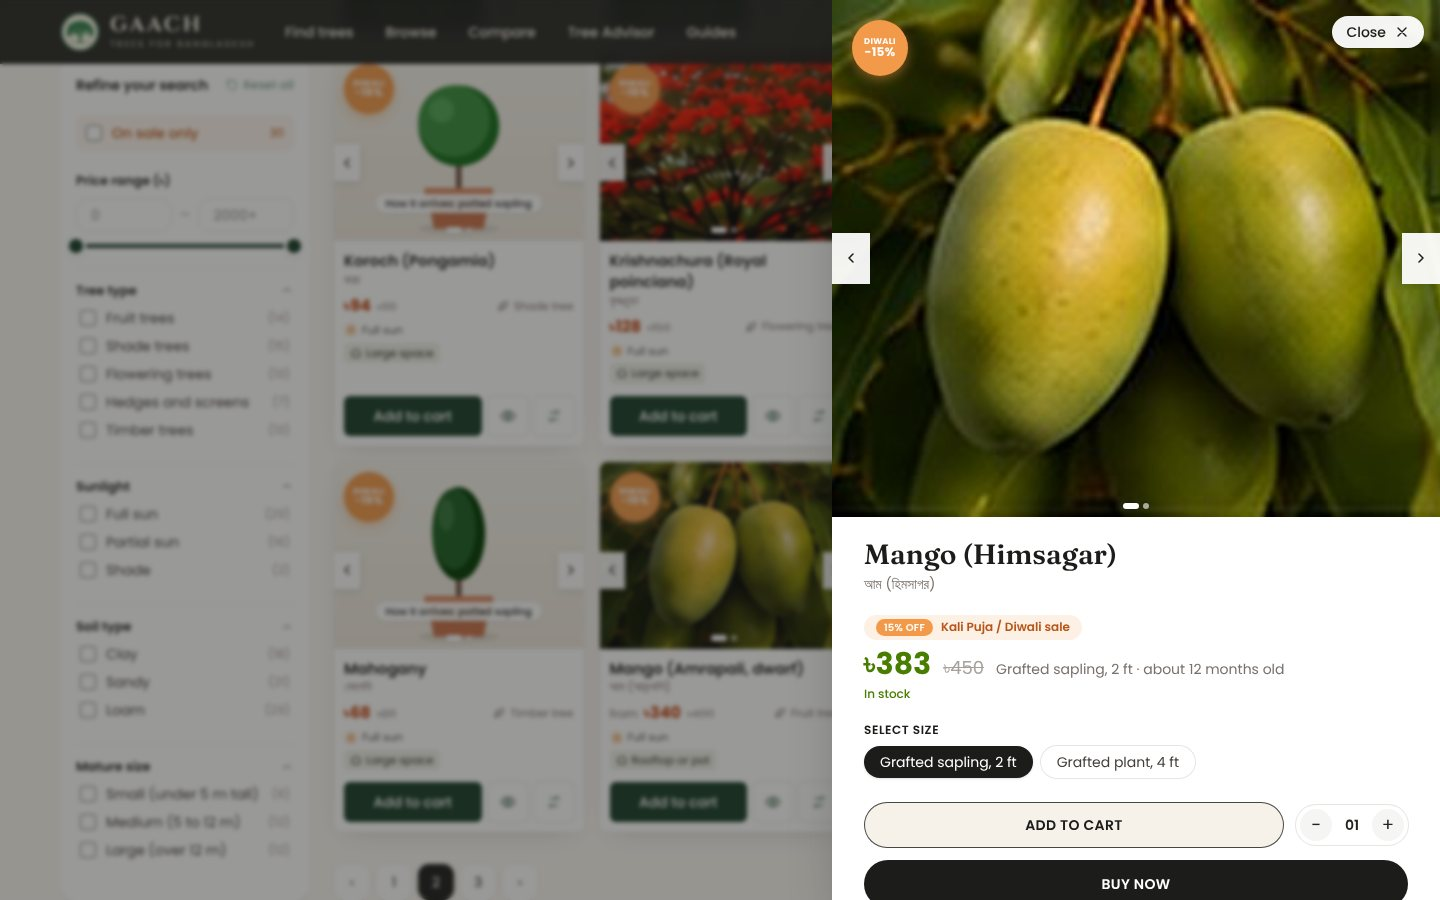
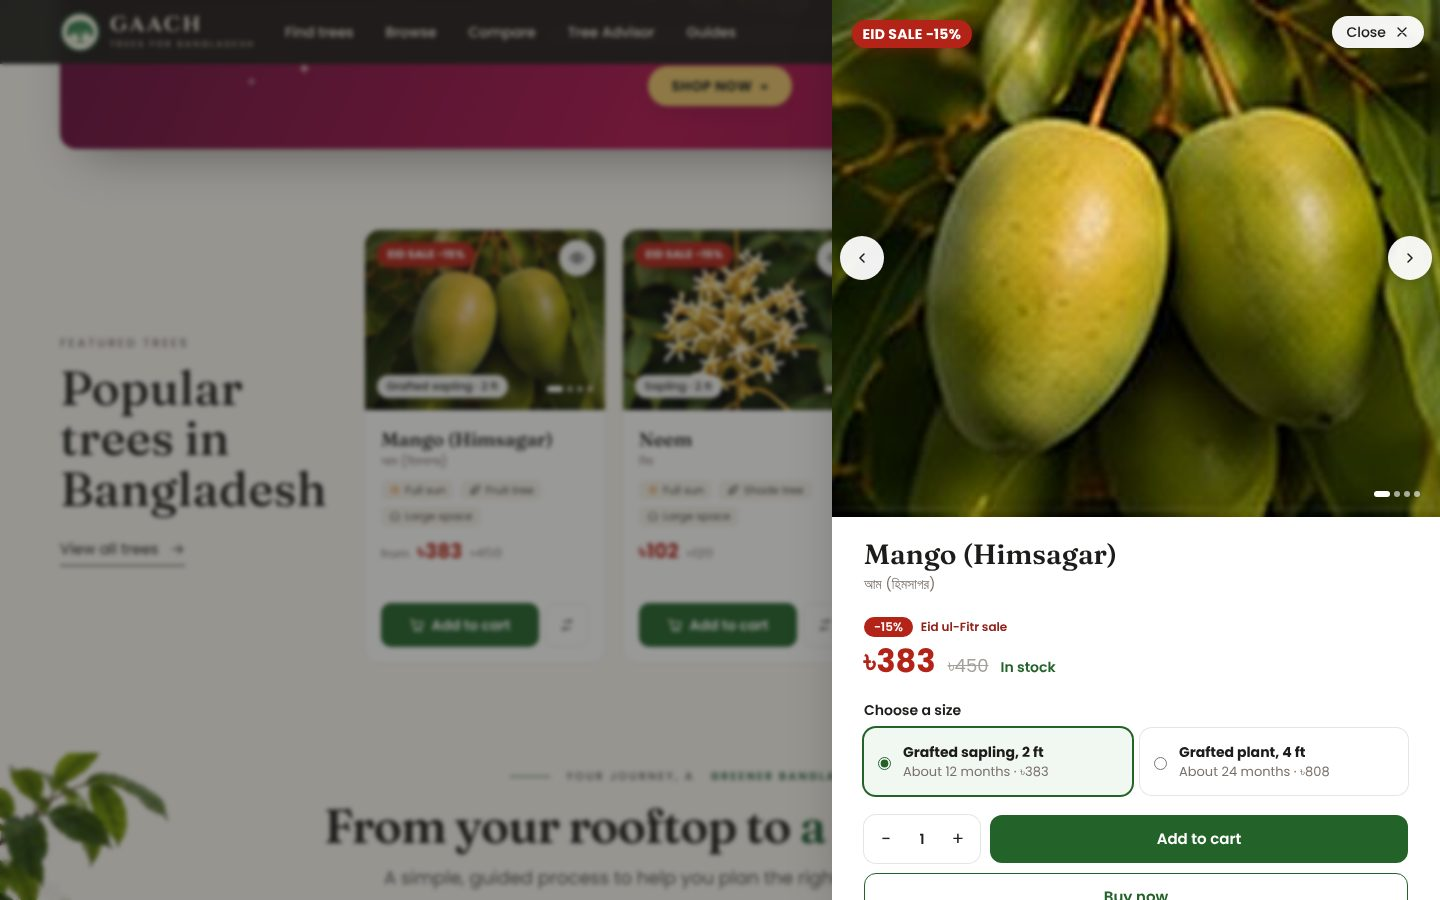
Add to cart on every card, Start now for sales, README

diff --git a/src/components/TreeCard.tsx b/src/components/TreeCard.tsx
@@ -95,25 +95,29 @@ export async function TreeCard({ tree, comparing = false, back = "/trees", layou
     </form>
   );
 
-  // One size: add it straight away. Several sizes: open the quick view to pick one.
+  // Every card says "Add to cart". One size: it goes straight in the cart.
+  // Several sizes: the quick view opens so the shopper picks one first.
+  const addLabel = (
+    <>
+      <span className="hidden @[15rem]:flex"><CartIcon /></span>
+      <span className="whitespace-nowrap">Add to cart</span>
+    </>
+  );
   const button = !buyable ? (
     <Link href={href} className="flex h-11 min-w-0 flex-1 items-center justify-center rounded-[0.625rem] border border-stone-200 px-3 text-sm font-medium text-stone-600 hover:bg-mint-50">
       {cheapest ? "Out of stock" : "View details"}
     </Link>
   ) : priced.filter((x) => x.product.stock > 0).length > 1 ? (
     <div className="min-w-0 flex-1">
-      <QuickView tree={quick} photos={slides} products={sizes} badge={badge} back={back} buttonClass={mainBtn} label={`Choose a size of ${tree.name}`}>
-        <span className="whitespace-nowrap"><span className="@[13rem]:hidden">Sizes</span><span className="hidden @[13rem]:inline">Choose size</span></span>
+      <QuickView tree={quick} photos={slides} products={sizes} badge={badge} back={back} buttonClass={mainBtn} label={`Add ${tree.name} to cart (choose a size)`}>
+        {addLabel}
       </QuickView>
     </div>
   ) : (
     <form action={addToCart} className="min-w-0 flex-1">
       <input type="hidden" name="productId" value={buyable.id} />
       <input type="hidden" name="back" value={back} />
-      <button aria-label={`Add ${tree.name} to cart`} className={mainBtn}>
-        <span className="hidden @[17rem]:flex"><CartIcon /></span>
-        <span className="whitespace-nowrap"><span className="@[13rem]:hidden">Add</span><span className="hidden @[13rem]:inline">Add to cart</span></span>
-      </button>
+      <button aria-label={`Add ${tree.name} to cart`} className={mainBtn}>{addLabel}</button>
     </form>
   );
 
@@ -124,6 +128,11 @@ export async function TreeCard({ tree, comparing = false, back = "/trees", layou
       <div className={`relative shrink-0 ${list ? "w-36 sm:w-44" : ""}`}>
         <CardPhotos photos={slides} href={href} name={tree.name} shape={tree.shape} color={tree.color} tag={tag} className={list ? "h-full min-h-36 rounded-xl" : "aspect-[4/3]"} />
         {top && <span className="sale-badge absolute left-3 top-3 z-10" title={top.occasion ?? "On sale"}>{top.badge} −{top.percentOff}%</span>}
+        <div className="absolute right-2.5 top-2.5 z-10">
+          <QuickView tree={quick} photos={slides} products={sizes} badge={badge} back={back} buttonClass="grid h-9 w-9 place-items-center rounded-full bg-white/95 text-forest-900 shadow-[0_2px_8px_rgb(0_0_0/0.15)] transition hover:scale-105 hover:text-leaf-700 active:scale-95">
+            <EyeIcon />
+          </QuickView>
+        </div>
       </div>
       <div className={`flex flex-1 flex-col ${list ? "py-1 pr-2" : "p-3 sm:p-4"}`}>
         <Link href={href} className="block">
@@ -151,10 +160,7 @@ export async function TreeCard({ tree, comparing = false, back = "/trees", layou
         </p>
         <div className={`mt-auto flex items-center gap-1.5 pt-3 ${list ? "max-w-sm" : ""}`}>
           {button}
-          <QuickView tree={quick} photos={slides} products={sizes} badge={badge} back={back} buttonClass={`${iconBtn} border-stone-200 bg-white text-forest-900 hover:border-leaf-600 hover:text-leaf-700`}>
-            <EyeIcon />
-          </QuickView>
-          {compare}
+          <div className="hidden @[13.5rem]:block">{compare}</div>
         </div>
       </div>
     </div>

diff --git a/src/app/admin/sales/page.tsx b/src/app/admin/sales/page.tsx
@@ -1,6 +1,6 @@
 import { db } from "@/lib/db";
 import { PromotionForm } from "@/components/admin/PromotionForm";
-import { deletePromotion, togglePromotion } from "@/modules/admin/sales-actions";
+import { deletePromotion, startPromotionNow, togglePromotion } from "@/modules/admin/sales-actions";
 import { ConfirmButton } from "@/components/ConfirmButton";
 import { isLive } from "@/modules/shop/pricing";
 import { festival, upcomingFestivals } from "@/lib/festivals";
@@ -15,7 +15,10 @@ function status(p: { active: boolean; startsAt: Date | null; endsAt: Date | null
   const now = new Date();
   if (!p.active) return ["Off", "bg-stone-100 text-stone-600"];
   if (p.endsAt && p.endsAt < now) return ["Ended", "bg-stone-100 text-stone-500"];
-  if (p.startsAt && p.startsAt > now) return ["Scheduled", "bg-sky-50 text-sky-800"];
+  if (p.startsAt && p.startsAt > now) {
+    const days = Math.ceil((p.startsAt.getTime() - now.getTime()) / 86_400_000);
+    return [days <= 1 ? "Starts within a day" : `Starts in ${days} days`, "bg-sky-50 text-sky-800"];
+  }
   return isLive(p, now) ? ["Live", "bg-lime-100 text-lime-800"] : ["Off", "bg-stone-100 text-stone-600"];
 }
 
@@ -55,10 +58,14 @@ export default async function SalesPage({ searchParams }: { searchParams: Promis
                 <span className="text-xs text-stone-500">{p.allTrees ? "All trees" : `${p.trees.length} tree${p.trees.length === 1 ? "" : "s"}`}</span>
                 <span className="text-xs text-stone-500">{p.startsAt ? when(p.startsAt) : "Now"} → {p.endsAt ? when(p.endsAt) : "no end date"}</span>
                 <span className="ml-auto flex gap-2">
+                  {p.active && p.startsAt && p.startsAt > new Date() && <form action={startPromotionNow}><input type="hidden" name="id" value={p.id} /><button className="btn-ghost text-xs font-semibold text-leaf-700">Start now</button></form>}
                   <form action={togglePromotion}><input type="hidden" name="id" value={p.id} /><button className="btn-ghost text-xs">{p.active ? "Switch off" : "Switch on"}</button></form>
                   <form action={deletePromotion}><input type="hidden" name="id" value={p.id} /><ConfirmButton message={`Delete the sale "${p.name}"?`} className="btn-ghost text-xs text-red-700">Delete</ConfirmButton></form>
                 </span>
               </summary>
+              {p.active && p.startsAt && p.startsAt > new Date() && (
+                <p className="mt-3 rounded-lg bg-sky-50 p-3 text-sm text-sky-900">Not live yet. Shoppers see the discount, badges and banners from {when(p.startsAt)}. Press &ldquo;Start now&rdquo; to begin it today.</p>
+              )}
               <div className="mt-4 border-t border-stone-100 pt-4">
                 <PromotionForm
                   trees={trees}

diff --git a/src/components/admin/PromotionForm.tsx b/src/components/admin/PromotionForm.tsx
@@ -114,7 +114,7 @@ export function PromotionForm({ p, trees, upcoming = [] }: { p?: PromoInit; tree
           <div><label className="field-label text-xs">Badge text (on product cards)</label><input name="badge" value={f.badge} onChange={set("badge")} maxLength={14} className="input uppercase" />{e.badge && <p className="field-error">{e.badge}</p>}</div>
           <div><label className="field-label text-xs">Discount (%)</label><input name="percentOff" type="number" min="1" max="90" value={f.percentOff} onChange={set("percentOff")} className="input" />{e.percentOff && <p className="field-error">{e.percentOff}</p>}</div>
           <div className="sm:col-span-2 lg:col-span-4"><label className="field-label text-xs">Why the discount (shown on the banners)</label><input name="message" value={f.message} onChange={set("message")} maxLength={140} placeholder="Celebrate Eid by planting a tree for your family." className="input" />{e.message && <p className="field-error">{e.message}</p>}</div>
-          <div><label className="field-label text-xs">Starts (optional)</label><input name="startsAt" type="datetime-local" value={f.startsAt} onChange={set("startsAt")} className="input" />{e.startsAt && <p className="field-error">{e.startsAt}</p>}</div>
+          <div><label className="field-label text-xs">Starts (optional)</label><input name="startsAt" type="datetime-local" value={f.startsAt} onChange={set("startsAt")} className="input" /><p className="mt-0.5 text-[0.6875rem] text-stone-500">Leave empty to start right away. Prices only change while the sale is live.</p>{e.startsAt && <p className="field-error">{e.startsAt}</p>}</div>
           <div><label className="field-label text-xs">Ends (optional)</label><input name="endsAt" type="datetime-local" value={f.endsAt} onChange={set("endsAt")} className="input" />{e.endsAt && <p className="field-error">{e.endsAt}</p>}</div>
           <div className="sm:col-span-2">
             <label className="field-label text-xs">Your own banner picture (optional)</label>

diff --git a/src/modules/admin/sales-actions.ts b/src/modules/admin/sales-actions.ts
@@ -115,6 +115,18 @@ export async function togglePromotion(fd: FormData) {
   revalidatePath("/", "layout");
 }
 
+// Starts a scheduled sale straight away (and switches it on)
+export async function startPromotionNow(fd: FormData) {
+  await requireAdmin();
+  const id = String(fd.get("id") ?? "");
+  const p = await db.promotion.findUnique({ where: { id } });
+  if (p) {
+    const now = new Date();
+    await db.promotion.update({ where: { id }, data: { active: true, startsAt: now, endsAt: p.endsAt && p.endsAt <= now ? null : p.endsAt } });
+  }
+  revalidatePath("/", "layout");
+}
+
 export async function deletePromotion(fd: FormData) {
   await requireAdmin();
   await db.promotion.deleteMany({ where: { id: String(fd.get("id") ?? "") } });

diff --git a/README.md b/README.md
@@ -137,7 +137,7 @@ Gaach was built for **CSE412 (Software Engineering) at East West University, Dha
 
 | Product cards with photo arrows and sale badges | Quick view from the eye button |
 |---|---|
-| <img src="docs/screenshots/product-cards.jpg" alt="Product cards with left and right photo arrows, a round Diwali sale badge, sale prices with the old price crossed out, and add to cart, quick view and compare buttons" /> | <img src="docs/screenshots/quick-view.jpg" alt="Quick-view panel sliding in from the right with a large photo slider, the sale badge, price, sizes and buy buttons" /> |
+| <img src="docs/screenshots/product-cards.jpg" alt="Product cards with photo arrows, a sale label, sale prices with the old price crossed out, and add to cart, quick view and compare buttons" /> | <img src="docs/screenshots/quick-view.jpg" alt="Quick-view panel sliding in from the right with a large photo slider, the sale badge, price, sizes and buy buttons" /> |
 | **Tree page with sizes and sale price** | **From your rooftop to a growing tree** |
 | <img src="docs/screenshots/tree-page.jpg" alt="Tree page for Mango (Himsagar) with the sale price, size buttons, quantity and photo gallery" /> | <img src="docs/screenshots/journey.jpg" alt="Home page section showing the four steps from picking a district to buying and growing" /> |
 
@@ -167,13 +167,13 @@ Gaach was built for **CSE412 (Software Engineering) at East West University, Dha
 |---|---|
 | 🌳 **Tree finder** | Recommends trees for a district and spot. Photo cards show the match score, the reasons and Buy and Compare buttons. Condition chips on the page update with the user's choices. |
 | 🔎 **Browse and search** | Every tree, with filters for type, sunlight, soil, mature size, price and "On sale only". Search works in English, in Bangla and by scientific name. Grid and list views, sorting and star ratings are included. |
-| 🖼 **Product cards** | Left and right arrows (or a swipe) flip through each tree's photos, then the potted sapling it arrives as. A round sale badge, the sale price with the old price crossed out, and Add to cart, quick view and compare buttons. |
-| 👁 **Quick view** | The eye button opens a side panel (a bottom sheet on phones) with a large photo slider, sizes, quantity, Add to cart, Buy now and a short description. |
+| 🖼 **Product cards** | One card design on the home, Browse and tree pages. Round arrows (shown on hover, always on phones) or a swipe flip through the photos and the potted sapling it arrives as. A size tag on the photo, a red sale label, the sale price with the old price crossed out, and the same green **Add to cart** button on every card. For a tree with several sizes, Add to cart opens the quick view so the shopper picks a size first. |
+| 👁 **Quick view** | The eye button on the photo opens a side panel (a bottom sheet on phones) with a large photo slider, sizes, quantity, Add to cart, Buy now and a short description. |
 | ⚖ **Compare** | Put 2 or 3 trees side by side: size, growth rate, sunlight, soil, water, season, flood, drought and salt tolerance, and cautions. |
 | 🎉 **Festival sales** | A decorated, animated banner on the home and shop pages and a strip with a countdown on every page, explaining the occasion and why prices are lower. |
 | 🛒 **Cart and checkout** | Several sizes per tree, quantity steppers, "Sale savings" in the summary, a stock-safe checkout, cash on delivery and a flat delivery fee. |
 | 📦 **Orders and My trees** | Order history, plus a "My trees" page that shows each tree's current growth stage and what to do next. |
-| 🤖 **Tree Advisor** | An AI chat that answers tree questions using Gaach's data and the user's own trees and saved sites. It is on every page and as a full page at `/assistant`. |
+| 🤖 **Tree Advisor** | An AI chat that answers tree questions using Gaach's data and the user's own trees and saved sites. It is on every page and as a full page at `/assistant` with chat history. **New chat** always starts a clean chat, and a refresh keeps the current one. |
 | 📷 **Photo check** | Send a photo of a sick plant and get the likely problem, safe next steps and links to care guides. |
 | 📚 **Care guides** | 28 practical guides grouped into planting and care, pests, problems and diseases, site and weather, safety, and specific trees. |
 | ⭐ **Ratings and reviews** | 1 to 5 stars with comments, and a "Bought from Gaach" badge for verified buyers. |
@@ -187,7 +187,7 @@ Gaach was built for **CSE412 (Software Engineering) at East West University, Dha
 | Area | Capabilities |
 |---|---|
 | **Trees and products** | Add, edit and publish trees. Upload several photos per tree at once and reorder or delete them. Manage sizes, prices, sale prices, stock and care stages. |
-| **Sales and offers** | A Bangladesh festival calendar fills in a sale in one tap. Pick one of 18 festival styles (with a live preview) or upload your own banner picture, then set the headline, badge, percent off, the reason shown to shoppers, dates, and all trees or chosen trees. Each sale shows as Live, Scheduled, Ended or Off. |
+| **Sales and offers** | A Bangladesh festival calendar fills in a sale in one tap. Pick one of 18 festival styles (with a live preview) or upload your own banner picture, then set the headline, badge, percent off, the reason shown to shoppers, dates, and all trees or chosen trees. Each sale shows as Live, Starts in N days, Ended or Off, and a scheduled sale has a **Start now** button. |
 | **Orders** | View all orders and update their status. Cancelling an order returns its stock. |
 | **Users and email** | View accounts, send a test email, email a reset link to a user, and see the last emails the site tried to send, with the result of each. |
 | **Reviews** | Hide, show or delete reviews. |
@@ -412,7 +412,8 @@ Admins create sales in **Admin → Sales & offers**. Each sale has a headline, a
 
 - **Festival calendar.** The admin page lists the festivals coming up in Bangladesh. One tap fills in the style, wording, discount and dates. Dates for Eid, Puja and Buddha Purnima depend on the moon and are marked so.
 - **Your own picture.** Instead of a drawn style, the admin can upload a banner picture, with or without Gaach's text on top.
-- **Where shoppers see it.** A big banner on the home and Browse pages, a strip with a live countdown at the top of every page, round badges on product cards and the sale name next to the price.
+- **Where shoppers see it.** A big banner on the home and Browse pages, a strip with a live countdown at the top of every page, a red sale label on product cards and the sale name next to the price.
+- **Scheduled sales.** A sale with a future start date changes nothing until that moment. The admin list says how many days are left, and **Start now** begins it straight away. Leave the start date empty to begin immediately.
 
 <p align="right"><sub><a href="#top">↑ Back to top</a></sub></p>
 
@@ -644,7 +645,7 @@ gaach/
 
 ## Responsive layout and accessibility
 
-- **Mobile first.** Layouts are checked at 360, 390, 768, 1024, 1100, 1280, 1440 and 1920 px wide. Card buttons adapt to the card's own width, photo sliders swipe on touch, and the quick view becomes a bottom sheet.
+- **Mobile first.** Layouts are checked at 360, 390, 768, 1024, 1100, 1280, 1440 and 1920 px wide. Cards adapt to their own width (the compare button hides on very narrow cards), photo sliders swipe on touch, and the quick view becomes a bottom sheet.
 - **Wide and zoomed-out screens.** From 1536 px up, the root font size grows with the screen width (`font-size: calc(100vw / 96)`), and every size is set in `rem`, so the whole layout scales together up to a 4K monitor.
 - **Accessibility.** Semantic HTML, a label on every form field and visible focus states. Photo arrows and the quick view have screen-reader labels, the quick view closes with Esc, the film has captions, and live regions announce Advisor replies.
 
@@ -658,7 +659,7 @@ gaach/
 | Reset emails don't arrive | Use a Gmail **App password** (not the account password) in `SMTP_PASS`, redeploy, then check **Admin → Users → Recent emails** for the exact error. |
 | The Advisor answers without AI | Set `GEMINI_API_KEY`. **Admin → AI status & review** shows whether the key works and which model answered. |
 | Photo or banner uploads fail online | Connect a public **Blob store** in Vercel → Storage, then redeploy. |
-| A sale doesn't show | Check it is **Switched on**, inside its dates, and has a banner option ticked. Its status should read **Live** in Admin → Sales & offers. |
+| A sale doesn't show | Its status in Admin → Sales & offers must read **Live**. "Starts in N days" means the start date is in the future: press **Start now** or clear the start date. Also check it is **Switched on** and, for "Only these trees", that the right trees are ticked. |
 | New environment variables have no effect | Redeploy. Vercel applies variables only to new deployments. |
 | `git commit` opens a Vim screen | Press `Esc`, type `:q!` and press Enter, then commit with `git commit -m "your message"`. To use Notepad instead, run `git config --global core.editor notepad`. |
 
